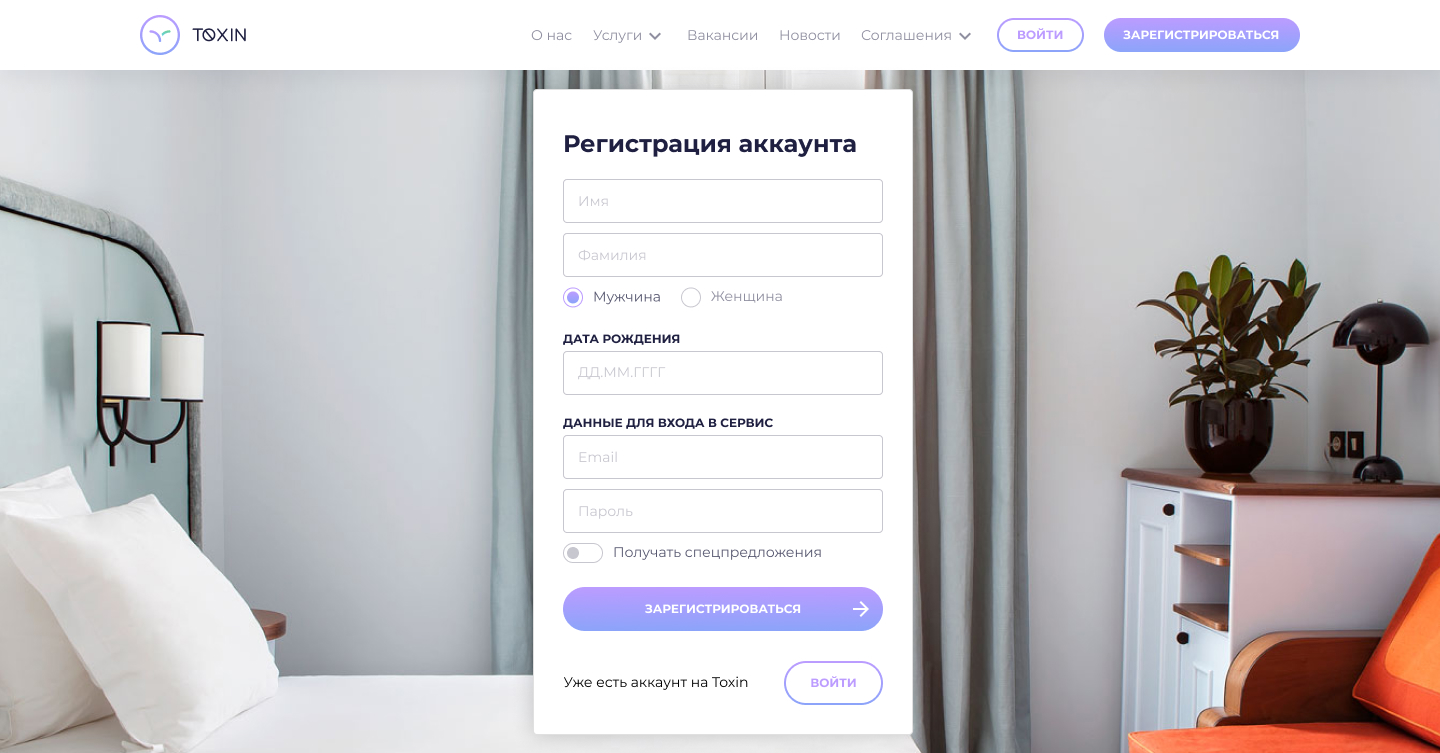
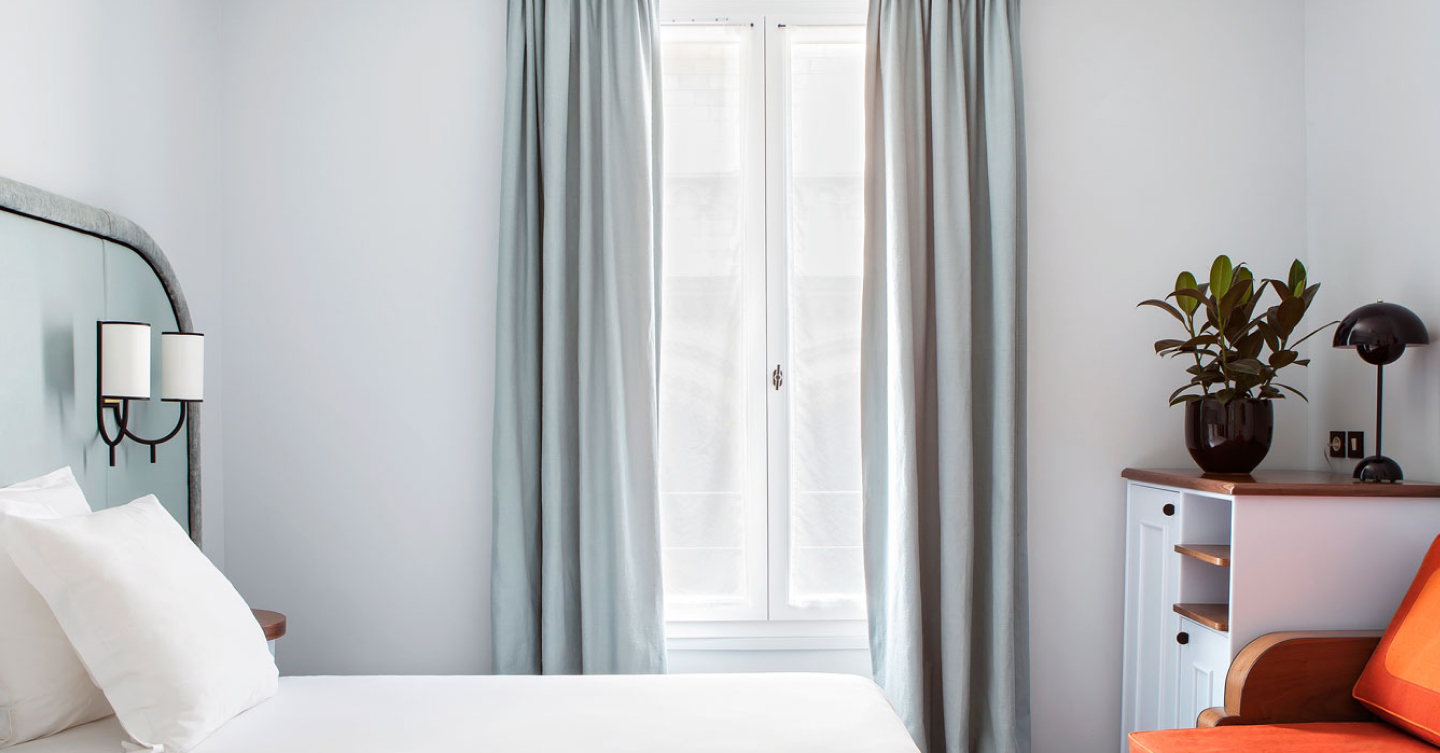
login page has done

Changed region(s): [[0.0, 0.0, 1.0, 0.9774]]

diff --git a/src/pages/login/login.html b/src/pages/login/login.html
@@ -160,7 +160,19 @@ a {
     margin-left: 16px;
   }
 }
-</style><!DOCTYPE html><html lang="ru"><head><meta charset="UTF-8"><meta name="viewport" content="width=device-width, initial-scale=1.0"><link rel="stylesheet" type="text/css" href="login.css"><title>Toxin</title></head><body> <div class="header__wrapper"><header class="header"><img class="header__logo" src="../../assets/svg/logo.svg" alt="toxin-logo"/><nav class="header__nav"><ul class="nav-list"><li class="nav-list__link">О нас</li><li class="nav-list__link"><div class="nav-list__details">Услуги <img src="../../assets/svg/expand_more.svg" alt="icon more"/></div></li><li class="nav-list__link">Вакансии</li><li class="nav-list__link">Новости</li><li class="nav-list__link"> <div class="nav-list__details">Соглашения<img src="../../assets/svg/expand_more.svg" alt="icon more"/></div></li></ul><div class="header__auth-options"><a class="outlined-button header__login-button" role="button" href="pages/login/login.html">Войти</a><a class="filled-button header__signUp-button" role="button">Зарегистрироваться</a></div><img class="nav-list__icon-burger" src="./assets/svg/burger.svg" alt="menu"/></nav></header></div><div class="main loginMain"></div><footer class="footer"><div class="footer__content"> <div class="footer__col"><img src="../../assets/svg/logo.svg"/><p class="footer__col-description">Бронирование номеров в лучшем отеле 2019 года по версии ассоциации «Отельные взгляды»</p></div><div class="footer__col"><h2 class="footer__col-title">Навигация</h2><ul class="footer__col-list"><li class="footer__col-list-item">О нас</li><li class="footer__col-list-item">Новости</li><li class="footer__col-list-item">служба поддержки</li><li class="footer__col-list-item">услуги</li></ul></div><div class="footer__col"><h2 class="footer__col-title">О нас</h2><ul class="footer__col-list"><li class="footer__col-list-item">О сервисе</li><li class="footer__col-list-item">Наша команда</li><li class="footer__col-list-item">Вакансии</li><li class="footer__col-list-item">Инвесторы</li></ul></div><div class="footer__col"><h2 class="footer__col-title">Служба поддержки</h2><ul class="footer__col-list"><li class="footer__col-list-item">Соглашения</li><li class="footer__col-list-item">Сообщества</li><li class="footer__col-list-item">Связь с нами</li></ul></div><div class="footer__col"> <h2 class="footer__col-title">Подписка</h2><p class="footer__col-description">Получайте специальные предложения и новости сервиса</p><div class="input__wrapper footer__email-input"><input class="input-button" placeholder="Email"/><svg width="18" height="18" viewBox="0 0 18 18" fill="none" xmlns="http://www.w3.org/2000/svg">
+</style><style> /* Form */
+.form {
+  width: 380px;
+  min-width: 320px;
+  background-color: var(--color-white);
+  padding: 40px 30px 30px 30px;
+  border-radius: 4px;
+}
+.form__title {
+  font-size: 24px;
+  margin-bottom: 20px;
+}
+</style><!DOCTYPE html><html lang="ru"><head><meta charset="UTF-8"><meta name="viewport" content="width=device-width, initial-scale=1.0"><link rel="stylesheet" type="text/css" href="login.css"><title>Toxin</title></head><body> <div class="header__wrapper"><header class="header"><img class="header__logo" src="../../assets/svg/logo.svg" alt="toxin-logo"/><nav class="header__nav"><ul class="nav-list"><li class="nav-list__link">О нас</li><li class="nav-list__link"><div class="nav-list__details">Услуги <img src="../../assets/svg/expand_more.svg" alt="icon more"/></div></li><li class="nav-list__link">Вакансии</li><li class="nav-list__link">Новости</li><li class="nav-list__link"> <div class="nav-list__details">Соглашения<img src="../../assets/svg/expand_more.svg" alt="icon more"/></div></li></ul><div class="header__auth-options"><a class="outlined-button header__login-button" role="button" href="pages/login/login.html">Войти</a><a class="filled-button header__signUp-button" role="button">Зарегистрироваться</a></div><img class="nav-list__icon-burger" src="./assets/svg/burger.svg" alt="menu"/></nav></header></div><main class="loginMain"><div class="form"><h2 class="form__title">Войти</h2><input class="text-input__input" placeholder="Email" type="text"/><input class="text-input__input login-input__password" placeholder="Пароль" type="password"/><a class="filled-button login-button__enter" role="button" href="#">Войти</a><div class="signUp-block"><span class="signUp-block__text">Нет аккаунта на Toxin?</span><a class="outlined-button" role="button">Создать</a></div></div></main><footer class="footer"><div class="footer__content"> <div class="footer__col"><img src="../../assets/svg/logo.svg"/><p class="footer__col-description">Бронирование номеров в лучшем отеле 2019 года по версии ассоциации «Отельные взгляды»</p></div><div class="footer__col"><h2 class="footer__col-title">Навигация</h2><ul class="footer__col-list"><li class="footer__col-list-item">О нас</li><li class="footer__col-list-item">Новости</li><li class="footer__col-list-item">служба поддержки</li><li class="footer__col-list-item">услуги</li></ul></div><div class="footer__col"><h2 class="footer__col-title">О нас</h2><ul class="footer__col-list"><li class="footer__col-list-item">О сервисе</li><li class="footer__col-list-item">Наша команда</li><li class="footer__col-list-item">Вакансии</li><li class="footer__col-list-item">Инвесторы</li></ul></div><div class="footer__col"><h2 class="footer__col-title">Служба поддержки</h2><ul class="footer__col-list"><li class="footer__col-list-item">Соглашения</li><li class="footer__col-list-item">Сообщества</li><li class="footer__col-list-item">Связь с нами</li></ul></div><div class="footer__col"> <h2 class="footer__col-title">Подписка</h2><p class="footer__col-description">Получайте специальные предложения и новости сервиса</p><div class="input__wrapper footer__email-input"><input class="input-button" placeholder="Email"/><svg width="18" height="18" viewBox="0 0 18 18" fill="none" xmlns="http://www.w3.org/2000/svg">
 <path d="M9 0.984375L17.0156 9L9 17.0156L7.59375 15.6094L13.1719 9.98438H0.984375V8.01562H13.1719L7.59375 2.39062L9 0.984375Z" fill="url(#paint0_linear_18370_15)"/>
 <defs>
 <linearGradient id="paint0_linear_18370_15" x1="9" y1="-13" x2="9" y2="31" gradientUnits="userSpaceOnUse">

diff --git a/src/ui/inputs/inputs.css b/src/ui/inputs/inputs.css
@@ -1,3 +1,5 @@
+@import './textInput/textInput.css';
+
 input {
   background: none;
   outline: none;
@@ -5,30 +7,4 @@ input {
 input:hover, input:focus {
   outline: none;
 }
-.text-input {
-  display: flex;
-  flex-direction: column;
-}
-.text-input__label {
-  text-transform: uppercase;
-  font-weight: bold;
-  font-size: 12px;
-  margin-bottom: 6px;
-}
-.text-input__input {
-  font-family: Montserrat;
-  border: 1px solid var(--color-black-25);
-  border-radius: 4px;
-  width: 100%;
-  font-size: 14px;
-  display: flex;
-  justify-content: space-between;
-  padding: 12px 16px;
-  color: var(--color-black-75);
-  outline: none;
-}
-.text-input__input:hover,
-.text-input__input:focus {
-  border-color: var(--color-black-50);
-  color: var(--color-black-50);
-}
+

diff --git a/src/ui/inputs/textInput/textInput.css b/src/ui/inputs/textInput/textInput.css
@@ -1,0 +1,27 @@
+.text-input {
+  display: flex;
+  flex-direction: column;
+}
+.text-input__label {
+  text-transform: uppercase;
+  font-weight: bold;
+  font-size: 12px;
+  margin-bottom: 6px;
+}
+.text-input__input {
+  font-family: Montserrat;
+  border: 1px solid var(--color-black-25);
+  border-radius: 4px;
+  width: 100%;
+  font-size: 14px;
+  display: flex;
+  justify-content: space-between;
+  padding: 12px 16px;
+  color: var(--color-black-75);
+  outline: none;
+}
+.text-input__input:hover,
+.text-input__input:focus {
+  border-color: var(--color-black-50);
+  color: var(--color-black-50);
+}

diff --git a/src/pages/login/login.css b/src/pages/login/login.css
@@ -1,6 +1,26 @@
-@import '../../ui/index.css';
+@import url(../../ui/index.css);
 
 .loginMain {
-  height: 100vh;
   width: 100%;
+  height: 100%;
+  max-height: 753px;
+  max-width: var(--app-width);
+  background-image: url(../../assets/img/login_headline.jpg);
+  background-repeat: no-repeat;
+  display: flex;
+  justify-content: center;
+  align-items: center;
+}
+.login-input__password {
+  margin-top: 10px;
+  margin-bottom: 20px;
+}
+.login-button__enter {
+  width: 100%;
+}
+.signUp-block {
+  display: flex;
+  align-items: center;
+  justify-content: space-between;
+  margin-top: 30px;
 }

diff --git a/src/ui/index.css b/src/ui/index.css
@@ -3,6 +3,7 @@
 @import "./buttons/buttons.css";
 @import "./footer/footer.css";
 @import "./header/header.css";
+@import "./inputs/inputs.css";
 
 html {
   font-size: calc(1vw / 14.4 * 9);
@@ -15,9 +16,16 @@ html {
   box-sizing: border-box;
 }
 body {
-  display: grid;
-  justify-items: center;
+  display: flex;
+  flex-direction: column;
+  align-items: center;
   font-size: 14px;
+}
+
+main {
+  width: 100vw;
+  display: flex;
+  justify-content: center;
 }
 
 h1 {
